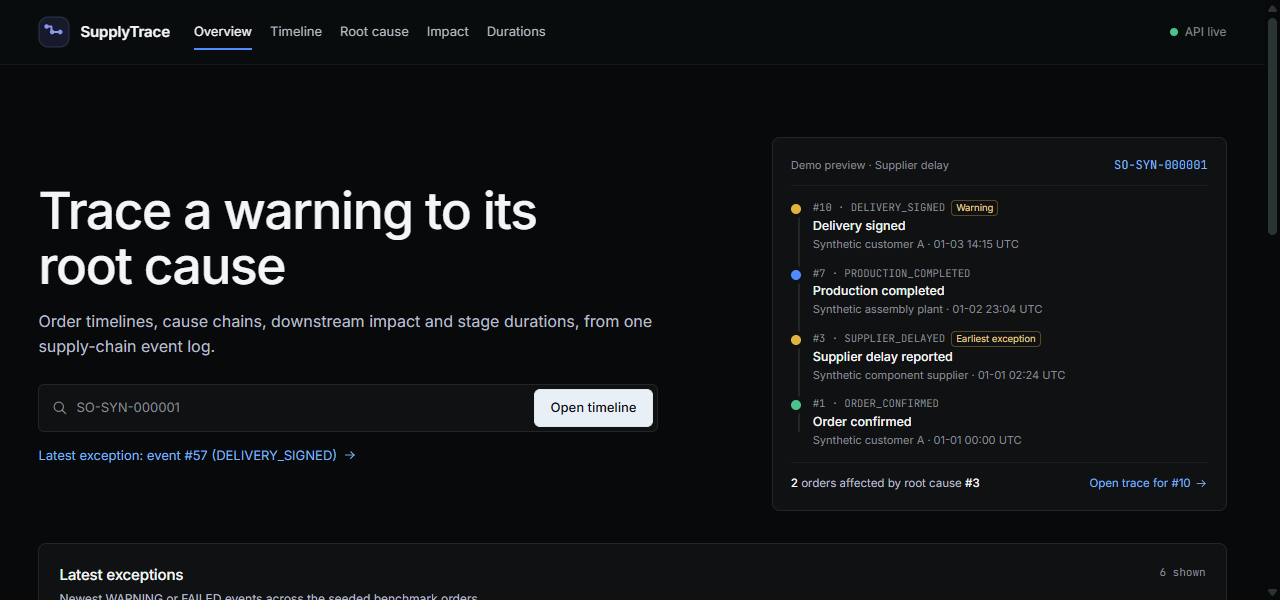
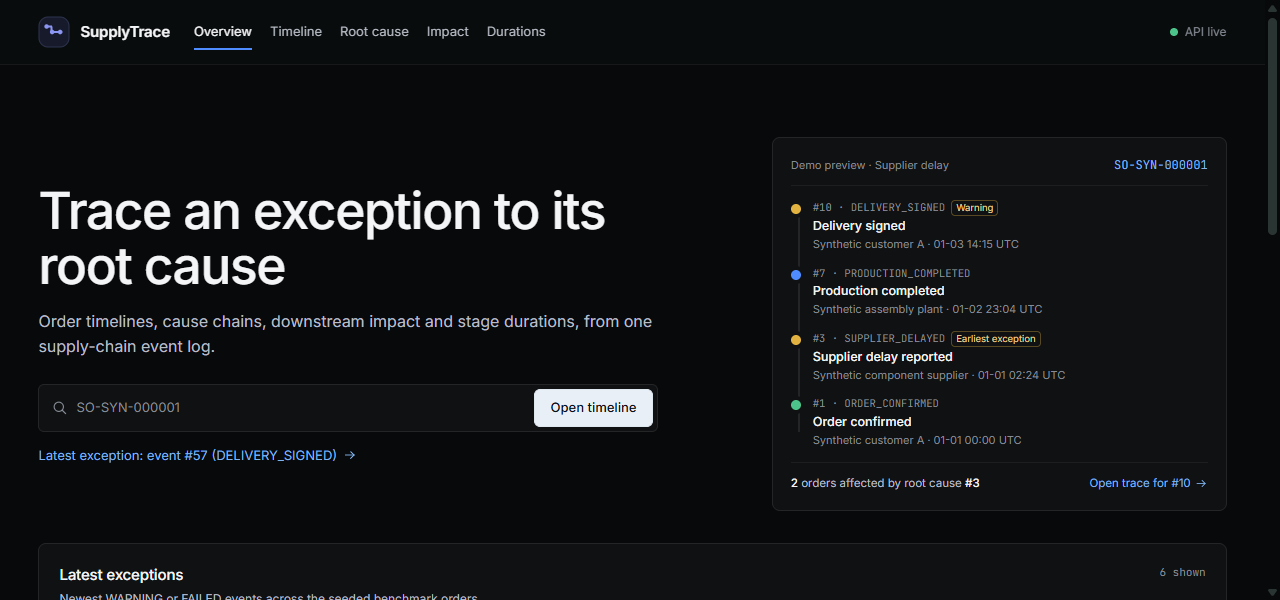
fix(frontend): broaden the hero headline to exceptions
The UI covers WARNING and FAILED events, so the hero now says "an exception" instead of "a warning". Updated the home and health screenshots.

Changed region(s): [[0.1562, 0.3, 0.4688, 0.42]]

diff --git a/frontend/src/pages/HomePage.tsx b/frontend/src/pages/HomePage.tsx
@@ -21,7 +21,7 @@ export function HomePage() {
       <section className="hero">
         <div className="hero__body">
           <h1 className="hero__title">
-            Trace a warning to its{' '}
+            Trace an exception to its{' '}
             <br />
             root cause
           </h1>
